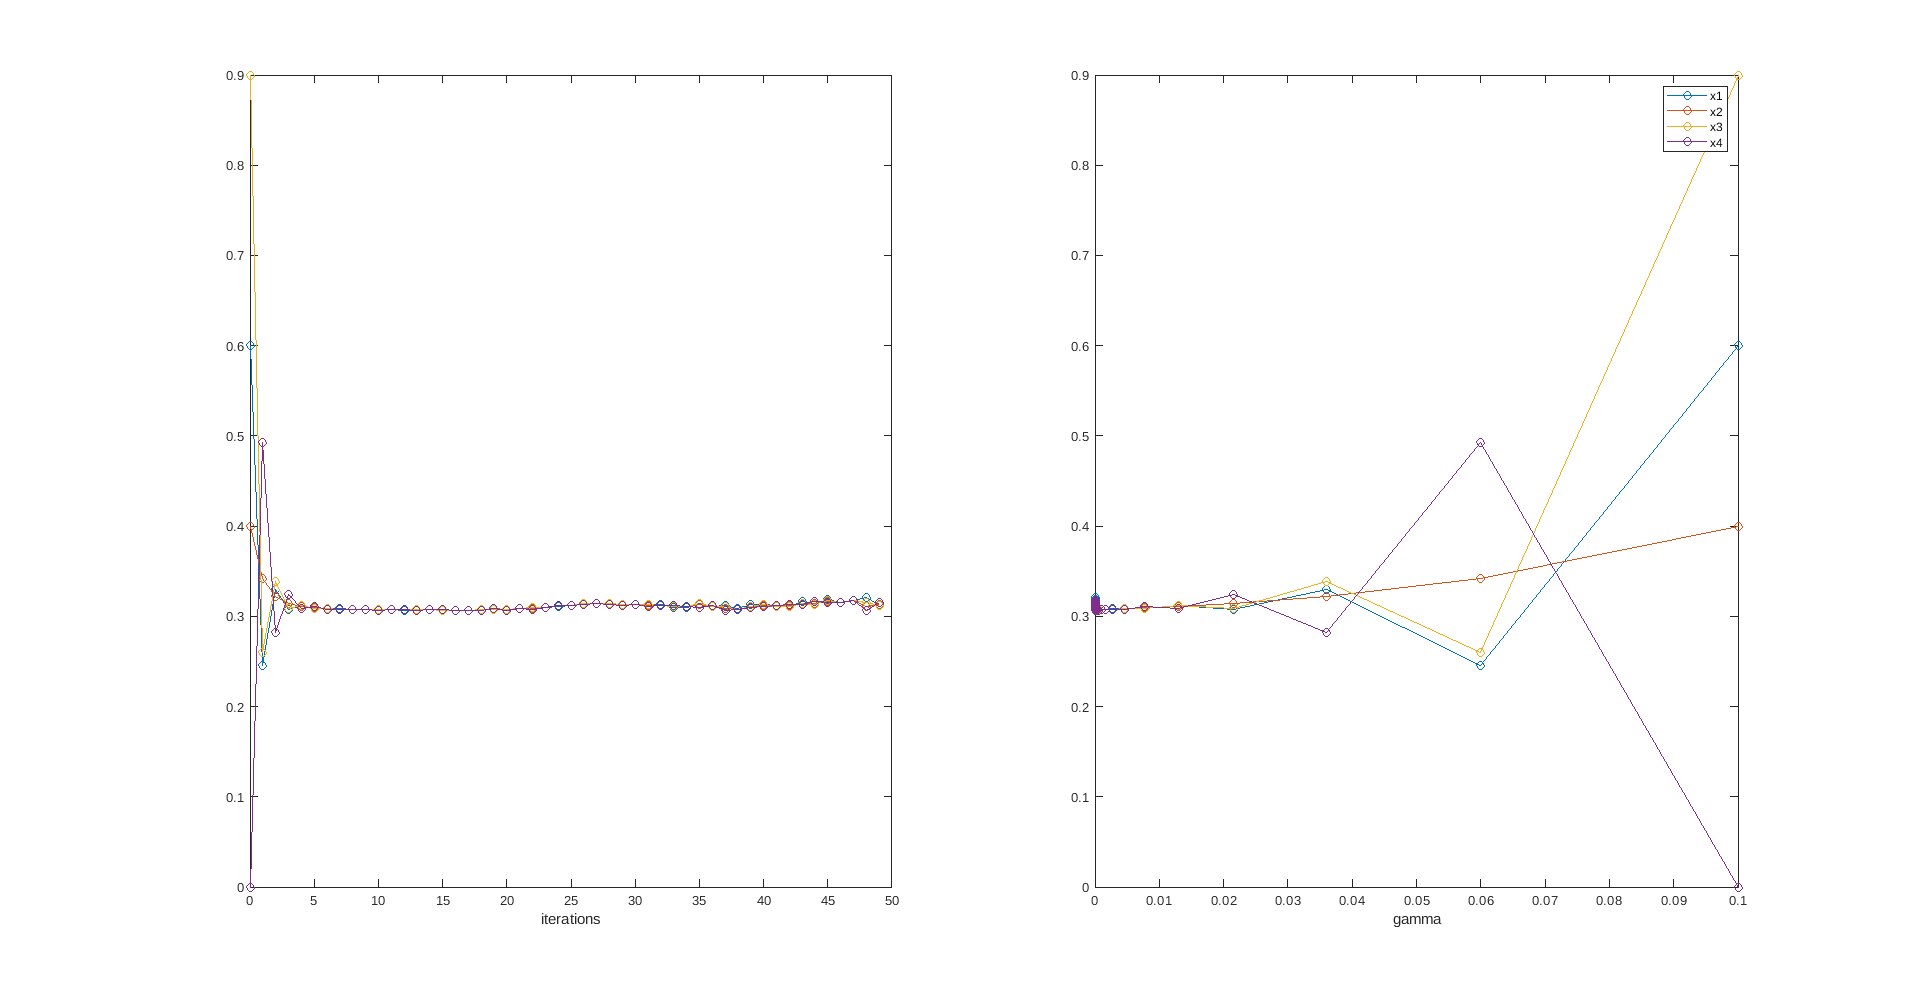
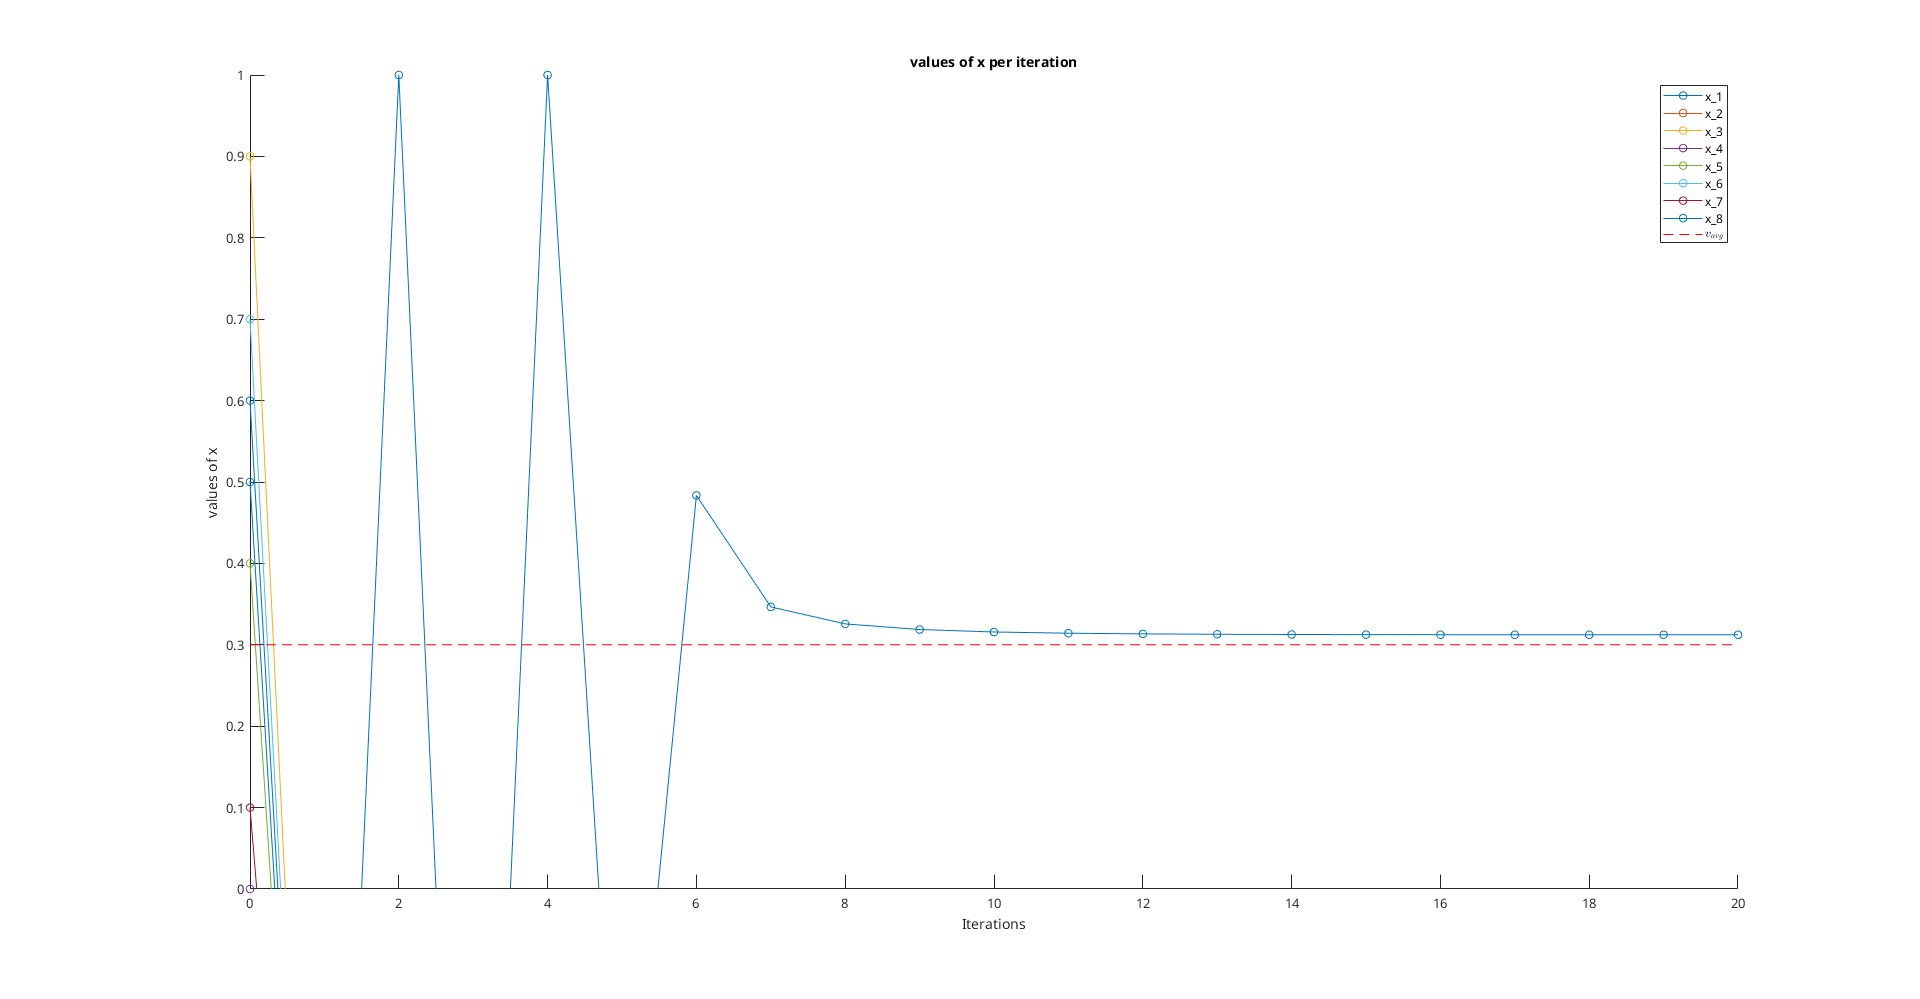
finishes up code

diff --git a/q2.m b/q2.m
@@ -29,14 +29,10 @@ C2 = 2.2;
 % x is state in 
 
 for t=1:T-1
-    gamma(t) = c*q^(t-1); % t-1 for index correction
-
-    lambda = 2*sqrt(n)*C2*c*q^(t-1)/eps;   % parameter b_t [other formula then in the paper]
-    
+    gamma(t) = c*q^(t-1); % t-1 for index correction 
     p = .95; % FIXME: slection of p not understood
     
     lambda = 2*C2*sqrt(n)*c*p^(t)/(eps*(p-q));
-
     zi(:,t) = (A*(x(:,t)+diag(randlap(4,lambda)))); % matrix prod solves sum.
 
 
@@ -46,12 +42,27 @@ end
 
 abs(round(x(:,end),3)-.3)
 
-figure(1)
-subplot(1,2,1)
+%% plot
+figure(1); hold on;
+% subplot(1,2,1); hold on;
+title("Values of x_i over iterations")
 plot(0:T-1,x,'-o')
+
 xlabel("iterations")
-subplot(1,2,2)
-plot(gamma,x,'-o')
-xlabel("gamma")
-legend('x1','x2','x3','x4')
-%axis([0 6 0 1])
+ylabel("values of x_i")
+
+vh = 0.3*ones(1,length(x));
+plot(0:T-1,vh,"r--")
+legend('x_1','x_2','x_3','x_4','$v_{avg}$','interpreter','latex')
+axis([0 50 0 1])
+
+% subplot(1,2,2); hold on;
+% title("Values of x_i over iterations")
+% plot(0:T-1,x,'-o')
+% 
+% xlabel("iterations")
+% ylabel("values of x_i")
+% 
+% plot(0:T-1,vh,"r--")
+% legend('x_1','x_2','x_3','x_4','$v_{avg}$','interpreter','latex')
+% axis([0 10 0 1])

diff --git a/q4.m b/q4.m
@@ -32,7 +32,7 @@ for t=1:T-1
     gamma(t) = c*q^(t-1); % t-1 for index correction
    
     lambda = 2*sqrt(n)*C2*c*q^(t-1)/eps;   % parameter b_t [other formula then in the paper]
-    p = 0.90;
+    p = 0.87;
     lambda = 2*C2*sqrt(n)*c*p^(t)/(eps*(p-q));
 
     
@@ -47,11 +47,30 @@ for t=1:T-1
     x(:,t+1) = projX(x(:,t+1),1,-1);
 end
 
+
+%% plot
 abs(round(x(:,end),3)-.3)
 
-figure(2)
+figure(2); clf; hold on;
+% subplot(1,2,1); hold on;
 plot(0:T-1,x,'-o')
-lgd.Layout.Tile = 'southeast';
-legend('x1','x2','x3','x4','x5','x6','x7','x8','Location','northeastoutside')
 
-%axis([0 6 0 1])
+vh = 0.3*ones(1,length(x));
+plot(0:T-1,vh,"r--")
+legend('x_1','x_2','x_3','x_4', 'x_5','x_6','x_7','x_8',"$v_{avg}$",'interpreter','latex')
+
+title("values of x per iteration")
+xlabel("Iterations")
+ylabel("values of x")
+
+% subplot(1,2,2); hold on; grid on;
+% plot(0:T-1,x,'-o')
+% 
+% vh = 0.3*ones(1,length(x));
+% plot(0:T-1,vh,"r--")
+% axis([30 50 .2 .4])
+% legend('x_1','x_2','x_3','x_4', 'x_5','x_6','x_7','x_8',"$v_{avg}$",'interpreter','latex')
+% 
+% title("values of x per iteration")
+% xlabel("Iterations")
+% ylabel("values of x")

diff --git a/q3.m b/q3.m
@@ -28,7 +28,16 @@ for t=1:T-1
     x(:,t+1) = projX(x(:,t+1),1,-1);
 end
 
-figure(1)
+%% plot
+figure(1); hold on;
 plot(0:T-1,x,'-o')
-legend('x1','x2','x3','x4', 'x5','x6','x7','x8')
-axis([0 20 0 1])
+
+axis([0 20 -1 1])
+
+title("values of x per iteration")
+xlabel("Iterations")
+ylabel("values of x")
+
+vh = 0.3*ones(1,length(x));
+plot(0:T-1,vh,"r--")
+legend('x_1','x_2','x_3','x_4', 'x_5','x_6','x_7','x_8',"$v_{avg}$",'interpreter','latex')

diff --git a/q1.m b/q1.m
@@ -28,7 +28,15 @@ for t=1:T-1
     x(:,t+1) = projX(x(:,t+1),1,-1);
 end
 
-figure(1)
+%% plot
+figure(1); hold on;
 plot(0:T-1,x,'-o')
-legend('x1','x2','x3','x4')
-axis([0 6 0 1])
+
+axis([0 10 0 1])
+title("values of x per iteration")
+xlabel("Iterations")
+ylabel("values of x")
+
+vh = 0.3*ones(1,length(x));
+plot(0:T-1,vh,"r--")
+legend('x1','x2','x3','x4','$v_{avg}$','interpreter','latex')
